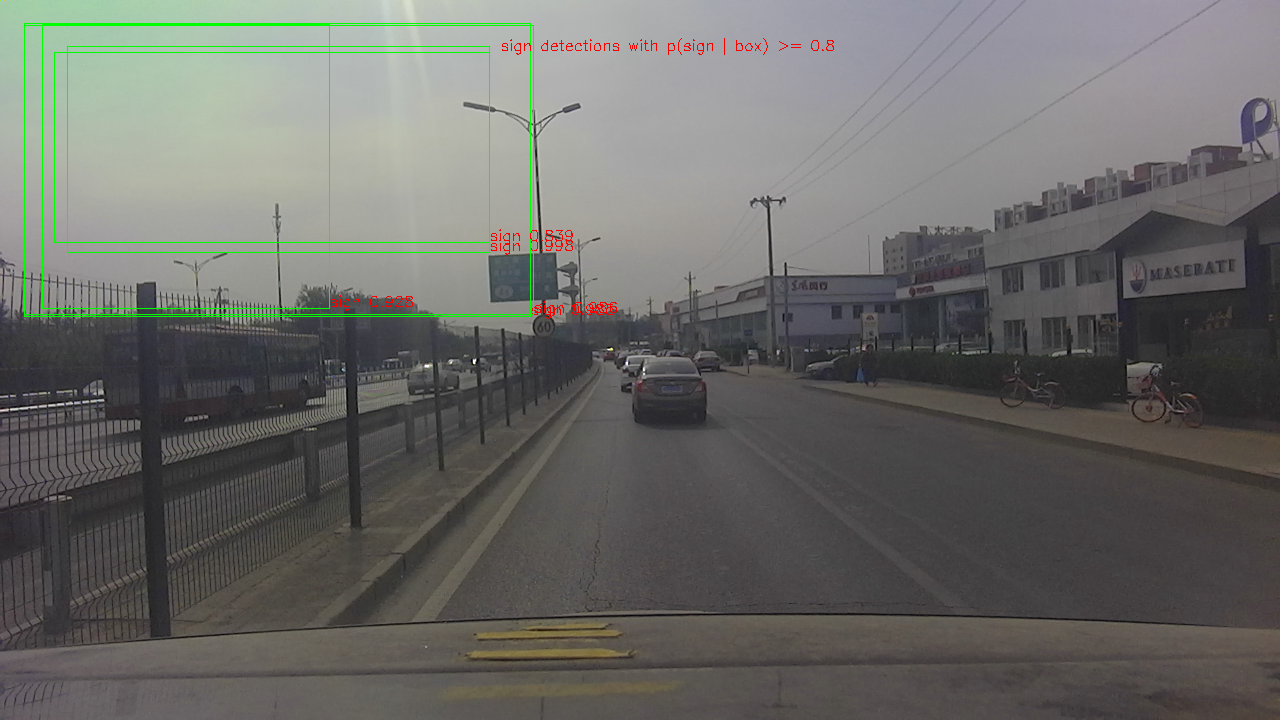
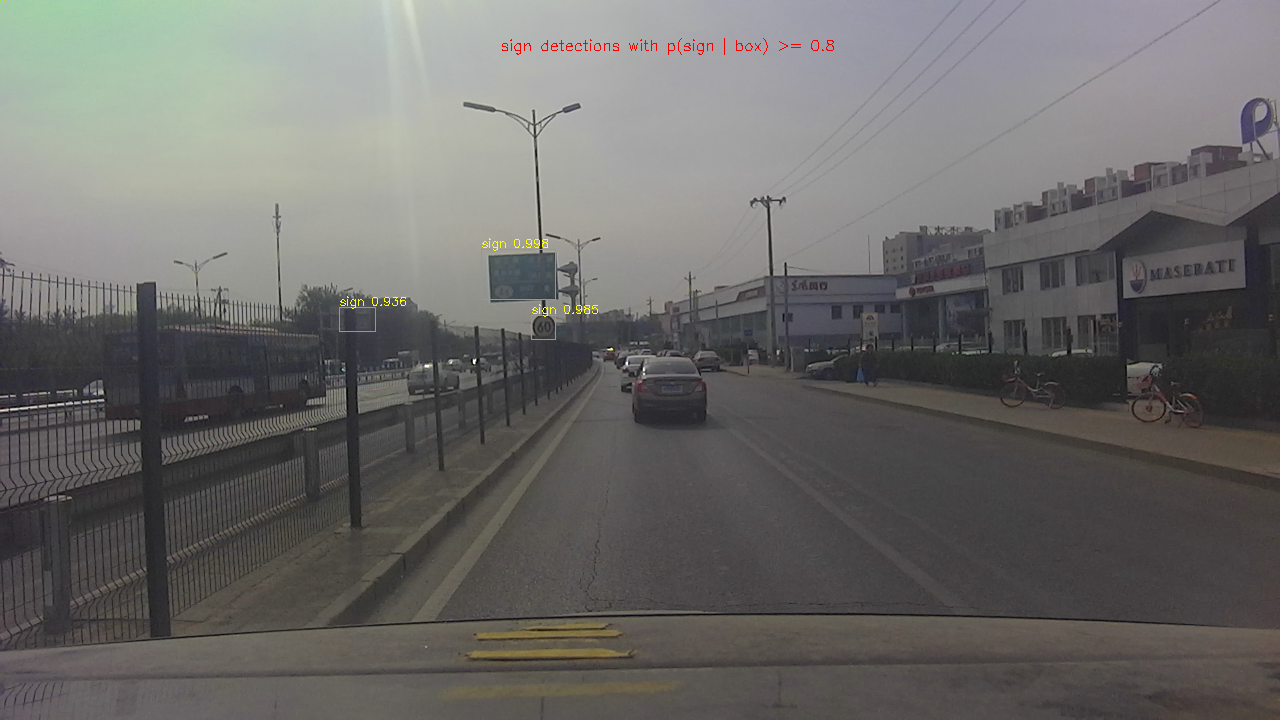
V2.5.1 fix show_detections bug

diff --git a/my_tools/show_detection.py b/my_tools/show_detection.py
@@ -27,9 +27,9 @@ import caffe, os, sys, cv2
 import argparse
 import os
 
-CLASSES = ('__background__',
-           'sign')
-
+CLASSES =('__background__', # always index 0
+          'sign')                                       
+  
 def vis_detections(im, class_name, dets, thresh=0.5):
     """Draw detected bounding boxes."""
     inds = np.where(dets[:, -1] >= thresh)[0]
@@ -40,8 +40,9 @@ def vis_detections(im, class_name, dets, thresh=0.5):
     for i in inds:
         bbox = dets[i, :4]
         score = dets[i, -1]
-        cv2.rectangle(im, (int(bbox[0]), int(bbox[1])), (int(bbox[2]-bbox[0]), int(bbox[3]-bbox[1])), (0, 255, 0), 1)
-        cv2.putText(im, '{:s} {:.3f}'.format(class_name, score), (int(bbox[0]),int(bbox[1]) - 2), cv2.FONT_HERSHEY_SIMPLEX, 0.5, (0,0,255))
+	print bbox
+        cv2.rectangle(im, (int(bbox[0]), int(bbox[1])), (int(bbox[2]), int(bbox[3])), (0, 255, 0), 1)
+        cv2.putText(im, '{:s} {:.3f}'.format(class_name, score), (int(bbox[0]),int(bbox[1]) - 2), cv2.FONT_HERSHEY_SIMPLEX, 0.4, (0,255,255))
     #title
     cv2.putText(im, ('{} detections with p({} | box) >= {:.1f}').format(class_name, class_name,thresh),
                 (500, 50), cv2.FONT_HERSHEY_SIMPLEX, 0.5, (0,0,255))
